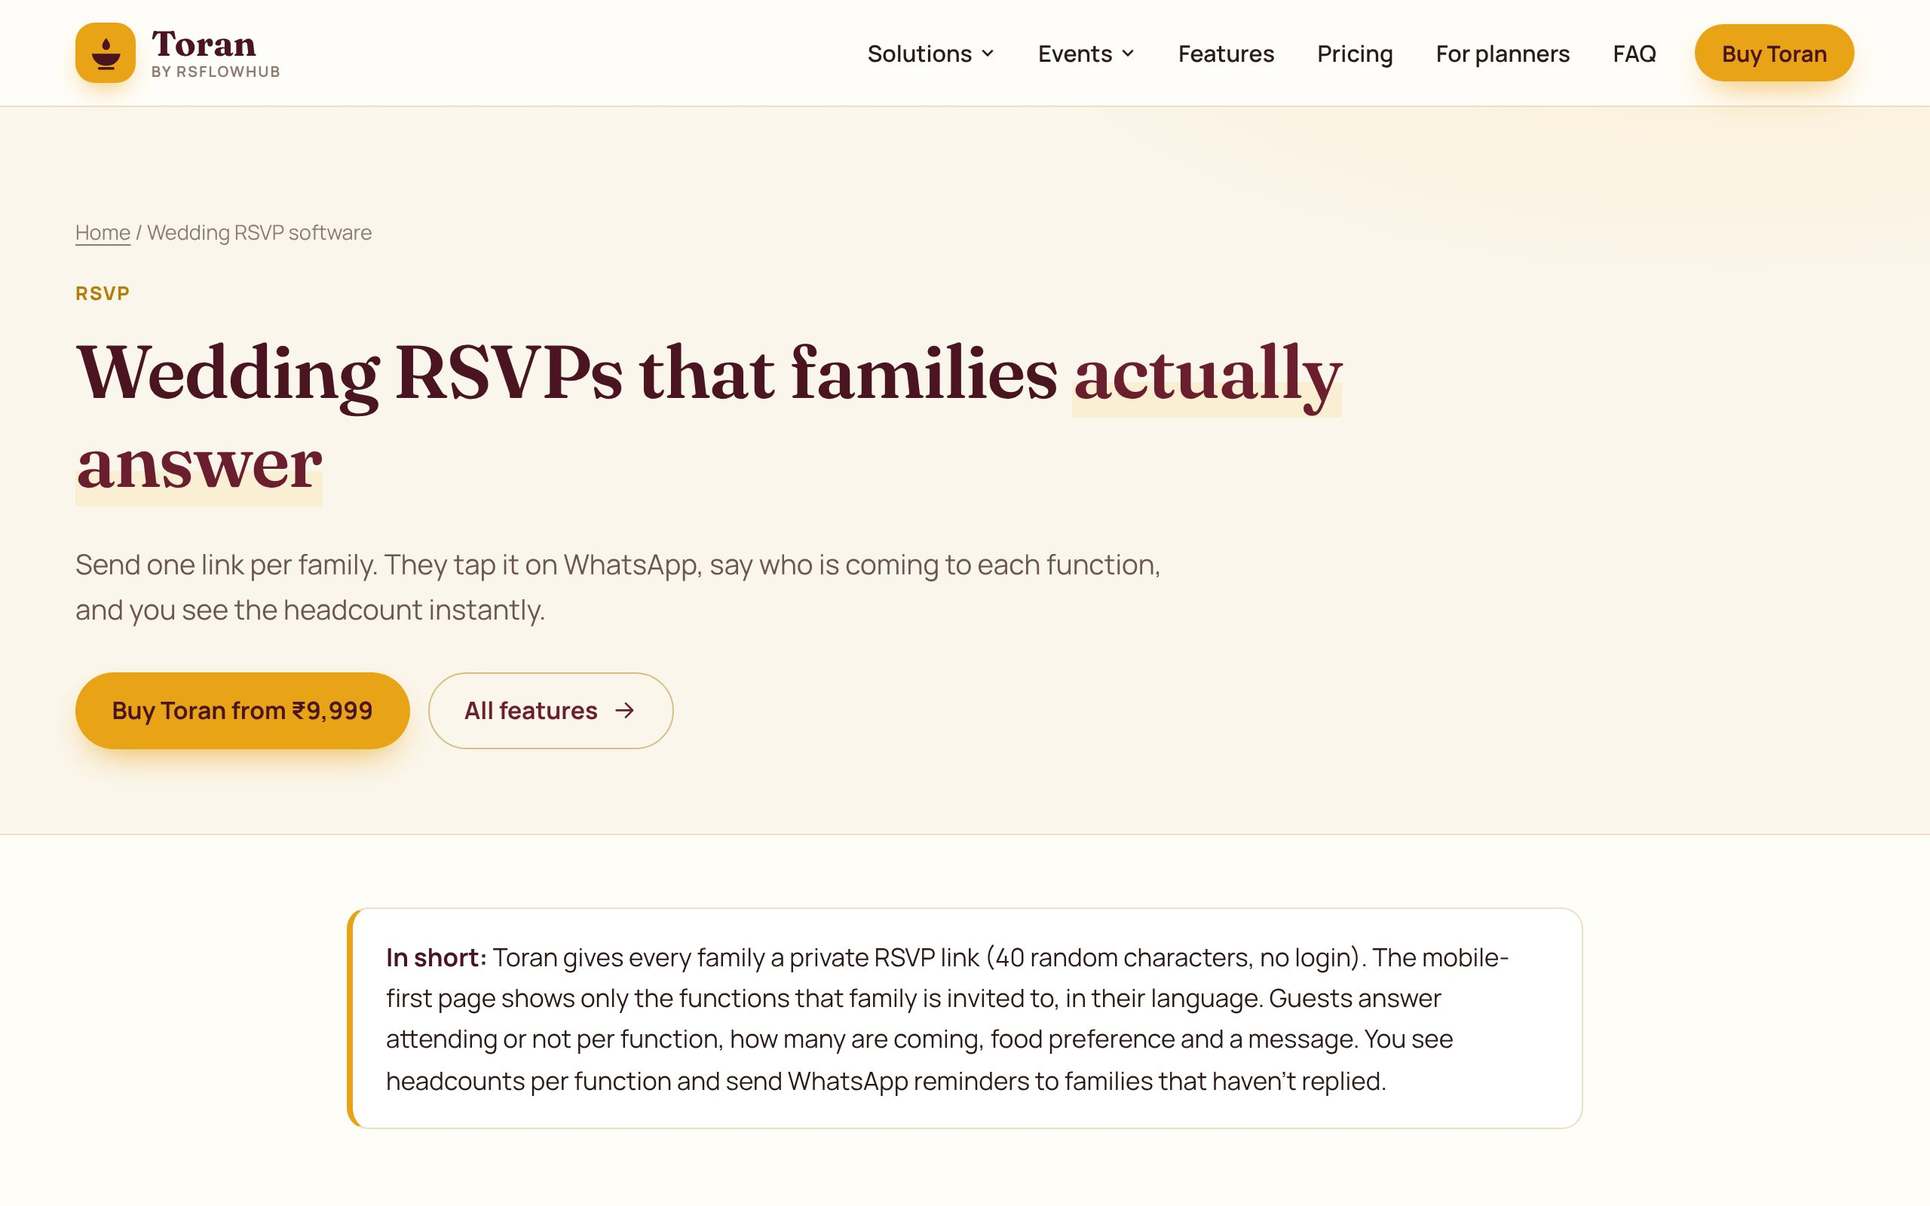
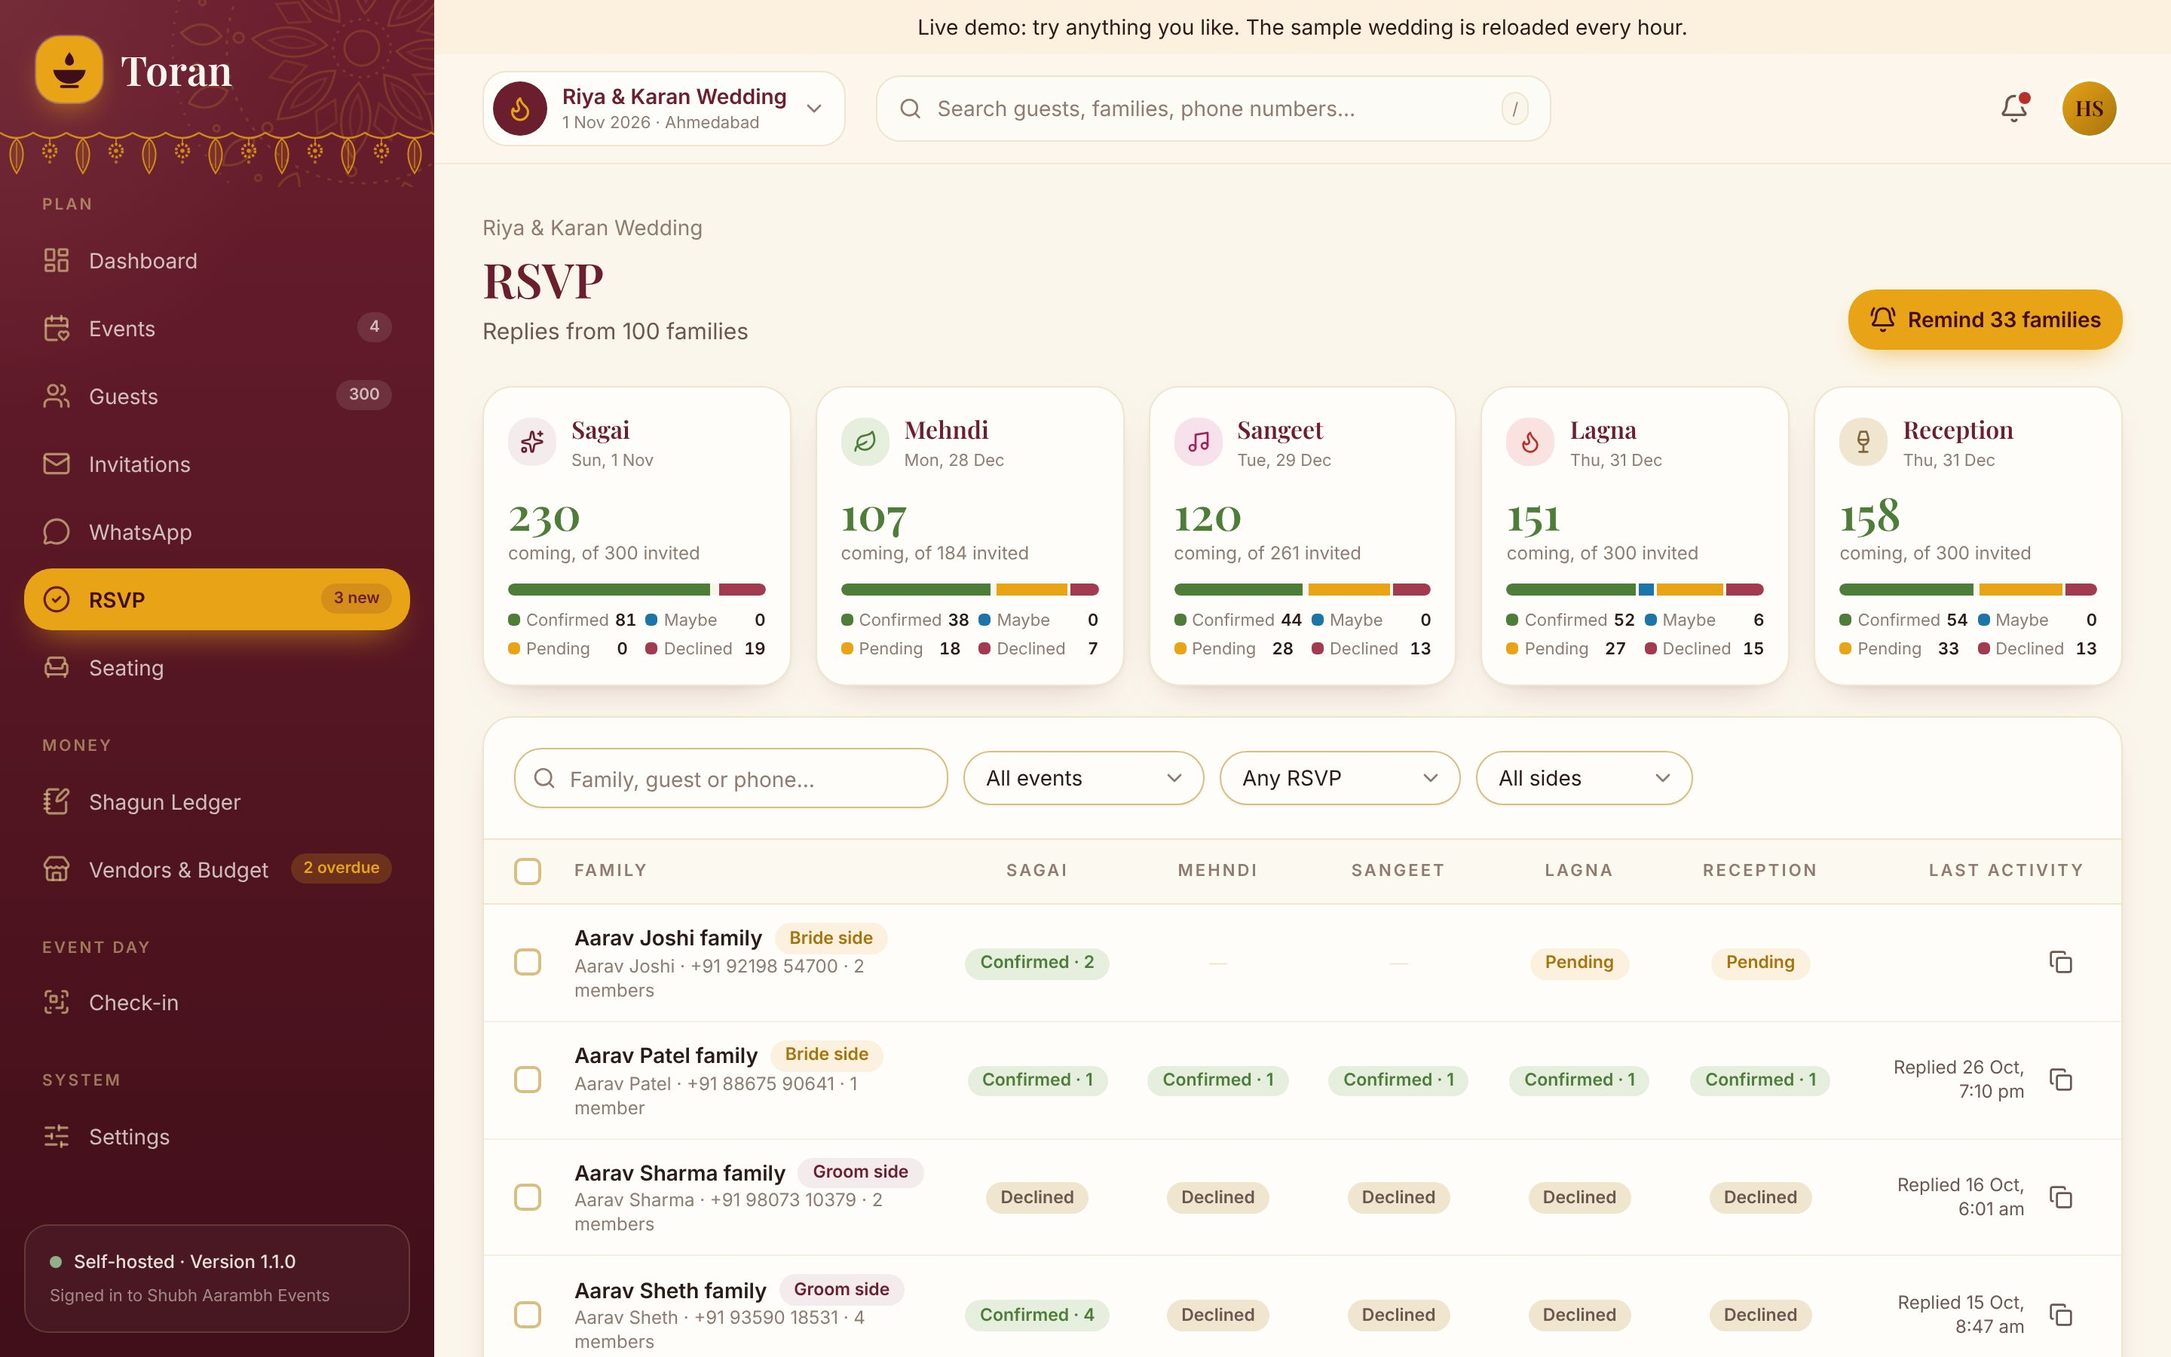
Add screenshots from the live Toran demo and a live demo link
Replace website page screenshots with 12 screenshots of the app
(dashboard, events, guests, RSVP, WhatsApp, invitations, seating,
shagun ledger, vendors, budget, languages, mobile check-in) and link
the live demo from the README and the GitHub Pages site.

diff --git a/docs/index.html b/docs/index.html
@@ -26,7 +26,7 @@
   "inLanguage": ["en", "hi", "gu", "mr"],
   "description": "Self-hosted wedding and event management software for Indian celebrations: guests and families, RSVP links, WhatsApp invitations, invitation designer, shagun ledger, seating plan, vendors and budget, and QR check-in.",
   "url": "https://toran.rsflowhub.com/",
-  "image": "https://rsflowhub.github.io/toran-event-management-software/assets/screenshots/toran-home.jpg",
+  "image": "https://rsflowhub.github.io/toran-event-management-software/assets/screenshots/toran-wedding-dashboard.jpg",
   "publisher": {"@type": "Organization", "name": "RSFlowHub", "url": "https://rsflowhub.com"},
   "offers": [
     {"@type": "Offer", "name": "Single", "price": "9999", "priceCurrency": "INR", "url": "https://toran.rsflowhub.com/pricing"},
@@ -44,6 +44,7 @@
     {"@type": "Question", "name": "Can wedding planners use Toran for clients?", "acceptedAnswer": {"@type": "Answer", "text": "Yes. The Planner plan (up to 3 installations) and the Agency plan (unlimited) allow client use and include white-label branding."}},
     {"@type": "Question", "name": "How does Toran send WhatsApp invitations?", "acceptedAnswer": {"@type": "Answer", "text": "Through the official WhatsApp Cloud API (Meta), Twilio, or free click-to-chat links, with throttling, retries and opt-outs."}},
     {"@type": "Question", "name": "Which languages does Toran support?", "acceptedAnswer": {"@type": "Answer", "text": "English, Hindi, Gujarati and Marathi, chosen per user."}},
+    {"@type": "Question", "name": "Is there a live demo of Toran?", "acceptedAnswer": {"@type": "Answer", "text": "Yes, at https://demo-toran.rsflowhub.com with a sample wedding of 300 guests. Sign in as Admin, Planner or Staff with one click; no sign-up needed."}},
     {"@type": "Question", "name": "Where is guest data stored?", "acceptedAnswer": {"@type": "Answer", "text": "Only on your own server. Toran has no telemetry and RSFlowHub does not host customer data."}}
   ]
 }
@@ -97,10 +98,10 @@ footer{padding:28px 0;color:var(--muted);font-size:14px;text-align:center;border
   <p class="lead">Guests, RSVPs, WhatsApp invitations, the shagun ledger, seating, vendors and the check-in desk, all in one place, with every phone number and gift amount kept on a server you control.</p>
   <div class="ctas">
     <a class="btn btn-p" href="https://toran.rsflowhub.com/pricing?utm_source=github&amp;utm_medium=pages&amp;utm_campaign=toran">Buy Toran from ₹9,999</a>
-    <a class="btn btn-o" href="https://toran.rsflowhub.com/contact?topic=demo&amp;utm_source=github&amp;utm_medium=pages&amp;utm_campaign=toran">Book a free demo</a>
+    <a class="btn btn-o" href="https://demo-toran.rsflowhub.com/login">Try the live demo</a>
   </div>
   <div class="ticks"><span>✓ One-time, GST included</span><span>✓ English, हिन्दी, ગુજરાતી, मराठी</span><span>✓ No per-guest fees</span><span>✓ No telemetry</span></div>
-  <div class="shot"><img src="assets/screenshots/toran-home.jpg" alt="Toran wedding management software home with the wedding dashboard" width="2560" height="1600"></div>
+  <div class="shot"><img src="assets/screenshots/toran-wedding-dashboard.jpg" alt="Toran wedding dashboard with countdown, guests, RSVP status, shagun and event timeline" width="2880" height="1800"></div>
 </div></div>
 
 <section id="features"><div class="wrap">
@@ -122,20 +123,26 @@ footer{padding:28px 0;color:var(--muted);font-size:14px;text-align:center;border
 
 <section id="screenshots" class="alt"><div class="wrap">
   <h2>Screenshots</h2>
-  <p class="sub">Pages from toran.rsflowhub.com and invitation designs bundled with Toran.</p>
+  <p class="sub">From the <a href="https://demo-toran.rsflowhub.com/login">live demo</a>: a sample wedding with 300 guests. Try it yourself, no sign-up needed.</p>
   <div class="gallery">
-    <figure><img loading="lazy" src="assets/screenshots/toran-shagun.jpg" alt="Toran digital shagun register"><figcaption>Shagun ledger</figcaption></figure>
-    <figure><img loading="lazy" src="assets/screenshots/toran-whatsapp.jpg" alt="Toran WhatsApp wedding invitations"><figcaption>WhatsApp invitations</figcaption></figure>
-    <figure><img loading="lazy" src="assets/screenshots/toran-rsvp.jpg" alt="Toran wedding RSVP software"><figcaption>RSVP</figcaption></figure>
-    <figure><img loading="lazy" src="assets/screenshots/toran-checkin.jpg" alt="Toran QR check-in at the wedding gate"><figcaption>QR check-in</figcaption></figure>
-    <figure><img loading="lazy" src="assets/screenshots/toran-seating.jpg" alt="Toran wedding seating plan"><figcaption>Seating plan</figcaption></figure>
-    <figure><img loading="lazy" src="assets/screenshots/toran-pricing.jpg" alt="Toran one-time pricing plans"><figcaption>One-time pricing</figcaption></figure>
+    <figure><img loading="lazy" src="assets/screenshots/toran-events-functions.jpg" alt="Toran event timeline with Sagai, Mehndi, Sangeet, Lagna and Reception"><figcaption>Events and functions</figcaption></figure>
+    <figure><img loading="lazy" src="assets/screenshots/toran-guest-list.jpg" alt="Toran wedding guest list with families, sides and RSVP"><figcaption>Guest list</figcaption></figure>
+    <figure><img loading="lazy" src="assets/screenshots/toran-rsvp.jpg" alt="Toran RSVP replies per function with headcounts"><figcaption>RSVP per function</figcaption></figure>
+    <figure><img loading="lazy" src="assets/screenshots/toran-whatsapp-invitations.jpg" alt="Toran WhatsApp invitations and reminders with send log"><figcaption>WhatsApp invitations</figcaption></figure>
+    <figure><img loading="lazy" src="assets/screenshots/toran-invitation-designer.jpg" alt="Toran invitation designer with sample designs"><figcaption>Invitation designer</figcaption></figure>
+    <figure><img loading="lazy" src="assets/screenshots/toran-seating-plan.jpg" alt="Toran drag-and-drop wedding seating plan"><figcaption>Seating plan</figcaption></figure>
+    <figure><img loading="lazy" src="assets/screenshots/toran-shagun-ledger.jpg" alt="Toran shagun ledger with running total"><figcaption>Shagun / chandlo ledger</figcaption></figure>
+    <figure><img loading="lazy" src="assets/screenshots/toran-vendors.jpg" alt="Toran wedding vendors with agreed amounts and balances"><figcaption>Vendors</figcaption></figure>
+    <figure><img loading="lazy" src="assets/screenshots/toran-wedding-budget.jpg" alt="Toran wedding budget planned vs spent"><figcaption>Budget: planned vs spent</figcaption></figure>
+    <figure><img loading="lazy" src="assets/screenshots/toran-languages.jpg" alt="Toran language settings"><figcaption>English, हिन्दी, ગુજરાતી, मराठी</figcaption></figure>
+    <figure><img loading="lazy" src="assets/screenshots/toran-qr-check-in-mobile.jpg" alt="Toran QR check-in desk on a mobile phone" style="max-height:520px;width:auto;margin:0 auto"><figcaption>QR check-in on a phone</figcaption></figure>
   </div>
   <div class="gallery" style="margin-top:22px;grid-template-columns:repeat(auto-fit,minmax(220px,1fr))">
-    <figure><img loading="lazy" src="assets/screenshots/toran-invitation-royal.png" alt="Royal Indian wedding invitation template"><figcaption>Royal invitation</figcaption></figure>
+    <figure><img loading="lazy" src="assets/screenshots/toran-invitation-royal.png" alt="Royal wedding invitation template"><figcaption>Royal invitation</figcaption></figure>
     <figure><img loading="lazy" src="assets/screenshots/toran-invitation-pastel.png" alt="Pastel wedding invitation template"><figcaption>Pastel invitation</figcaption></figure>
     <figure><img loading="lazy" src="assets/screenshots/toran-invitation-minimal.png" alt="Minimal wedding invitation template"><figcaption>Minimal invitation</figcaption></figure>
   </div>
+  <p style="text-align:center;margin-top:28px"><a class="btn btn-p" href="https://demo-toran.rsflowhub.com/login">Open the live demo →</a></p>
 </div></section>
 
 <section id="events"><div class="wrap">
@@ -186,14 +193,14 @@ footer{padding:28px 0;color:var(--muted);font-size:14px;text-align:center;border
   <details><summary>How are WhatsApp invitations sent?</summary><p>Through the official WhatsApp Cloud API (Meta), Twilio, or free click-to-chat links, with throttling, retries and automatic opt-outs.</p></details>
   <details><summary>Do guests need an app to RSVP?</summary><p>No. Each family opens its own private link on any phone. No login is needed.</p></details>
   <details><summary>What hosting do I need?</summary><p>PHP 8.2+, MySQL 5.7+ or MariaDB 10.3+ and one cron job, on cPanel or Plesk shared hosting, a VPS, or Docker. We can install it for you.</p></details>
-  <details><summary>Can I try it first?</summary><p>Yes. <a href="https://toran.rsflowhub.com/contact?topic=demo&amp;utm_source=github&amp;utm_medium=pages&amp;utm_campaign=toran">Book a guided demo</a> and we will walk you through a sample wedding.</p></details>
+  <details><summary>Can I try it first?</summary><p>Yes. Open the <a href="https://demo-toran.rsflowhub.com/login">live demo</a> and pick Admin, Planner or Staff. No sign-up is needed, and the sample wedding reloads every hour. Or <a href="https://toran.rsflowhub.com/contact?topic=demo&amp;utm_source=github&amp;utm_medium=pages&amp;utm_campaign=toran">book a guided demo</a>.</p></details>
   <p style="text-align:center">Docs: <a href="installation">Installation</a> · <a href="configuration">Configuration</a> · <a href="user-guide">User guide</a> · <a href="customisation">Customisation</a> · <a href="upgrade">Upgrade</a> · <a href="faq">Full FAQ</a></p>
 </div></section>
 
 <section class="final"><div class="wrap">
   <h2>Plan the whole celebration from your own server</h2>
   <p>Pay once. Every module. Your guests' data stays with you.</p>
-  <div class="ctas"><a class="btn btn-p" style="background:var(--gold);color:#2a0f17" href="https://toran.rsflowhub.com/pricing?utm_source=github&amp;utm_medium=pages&amp;utm_campaign=toran">Buy Toran</a><a class="btn btn-o" href="https://toran.rsflowhub.com/contact?topic=demo&amp;utm_source=github&amp;utm_medium=pages&amp;utm_campaign=toran">Book a demo</a></div>
+  <div class="ctas"><a class="btn btn-p" style="background:var(--gold);color:#2a0f17" href="https://toran.rsflowhub.com/pricing?utm_source=github&amp;utm_medium=pages&amp;utm_campaign=toran">Buy Toran</a><a class="btn btn-o" href="https://demo-toran.rsflowhub.com/login">Try the live demo</a></div>
 </div></section>
 </main>
 

diff --git a/README.md b/README.md
@@ -7,14 +7,16 @@
 **Self-hosted wedding planner software. Manage the guest list, RSVPs, WhatsApp invitations, the shagun (chandlo) ledger, seating, vendors and budget, and QR check-in at the gate. Pay once, install it on your own server, and keep every phone number and gift amount private.**
 
 [![Buy Toran](https://img.shields.io/badge/Buy%20Toran-from%20%E2%82%B99%2C999-e9a319?style=for-the-badge)](https://toran.rsflowhub.com/pricing?utm_source=github&utm_medium=readme&utm_campaign=toran)
-[![Book a demo](https://img.shields.io/badge/Book%20a%20free%20demo-6b1d2e?style=for-the-badge)](https://toran.rsflowhub.com/contact?topic=demo&utm_source=github&utm_medium=readme&utm_campaign=toran)
+[![Try the live demo](https://img.shields.io/badge/Try%20the%20live%20demo-6b1d2e?style=for-the-badge)](https://demo-toran.rsflowhub.com/login)
 [![Website](https://img.shields.io/badge/Website-toran.rsflowhub.com-4a1424?style=for-the-badge)](https://toran.rsflowhub.com/?utm_source=github&utm_medium=readme&utm_campaign=toran)
 
 ![Version](https://img.shields.io/badge/version-1.0-blue) ![PHP](https://img.shields.io/badge/PHP-8.2%2B-777bb4) ![Languages](https://img.shields.io/badge/English%20%7C%20%E0%A4%B9%E0%A4%BF%E0%A4%A8%E0%A5%8D%E0%A4%A6%E0%A5%80%20%7C%20%E0%AA%97%E0%AB%81%E0%AA%9C%E0%AA%B0%E0%AA%BE%E0%AA%A4%E0%AB%80%20%7C%20%E0%A4%AE%E0%A4%B0%E0%A4%BE%E0%A4%A0%E0%A5%80-orange) ![Made in India](https://img.shields.io/badge/Made%20in-India-ff9933) ![Licence](https://img.shields.io/badge/licence-one--time-success)
 
 </div>
 
-![Toran wedding management software showing a wedding dashboard with guests, RSVPs, shagun and the Mehndi, Sangeet and Lagna timeline](docs/assets/screenshots/toran-home.jpg)
+![Toran wedding management software dashboard: countdown to the wedding, 300 guests, RSVP status, shagun received and the event timeline](docs/assets/screenshots/toran-wedding-dashboard.jpg)
+
+> 🎮 **Live demo:** **[demo-toran.rsflowhub.com](https://demo-toran.rsflowhub.com/login)**. Pick Admin, Planner or Staff and sign in with one click, no sign-up needed. It has a sample wedding with 300 guests, RSVPs, shagun, seating, vendors and a budget, and it reloads every hour.
 
 > **About this repository:** this repository holds the product page, screenshots and documentation for **Toran**. The software itself is sold as a one-time licence at **[toran.rsflowhub.com](https://toran.rsflowhub.com/?utm_source=github&utm_medium=readme&utm_campaign=toran)**.
 
@@ -162,11 +164,17 @@ Toran is not only for weddings. Each event type has its own page:
 
 ## Screenshots
 
+All screenshots are from the [live demo](https://demo-toran.rsflowhub.com/login) (sample wedding data).
+
 | | |
 |---|---|
-| ![Toran features: everything to run an Indian wedding in one app](docs/assets/screenshots/toran-features.jpg) **All modules** | ![Toran digital shagun and chandlo register](docs/assets/screenshots/toran-shagun.jpg) **Shagun ledger** |
-| ![Toran WhatsApp wedding invitations](docs/assets/screenshots/toran-whatsapp.jpg) **WhatsApp invitations** | ![Toran wedding RSVP link per family](docs/assets/screenshots/toran-rsvp.jpg) **RSVP** |
-| ![Toran QR check-in at the wedding gate](docs/assets/screenshots/toran-checkin.jpg) **QR check-in** | ![Toran wedding seating plan](docs/assets/screenshots/toran-seating.jpg) **Seating plan** |
+| ![Toran event timeline with Sagai, Mehndi, Sangeet, Lagna and Reception](docs/assets/screenshots/toran-events-functions.jpg) **Events and functions** | ![Toran wedding guest list with families, bride and groom side and RSVP](docs/assets/screenshots/toran-guest-list.jpg) **Guest list (300 guests, 100 families)** |
+| ![Toran RSVP replies per function with headcounts](docs/assets/screenshots/toran-rsvp.jpg) **RSVP per function** | ![Toran WhatsApp invitations and RSVP reminders with send log](docs/assets/screenshots/toran-whatsapp-invitations.jpg) **WhatsApp invitations** |
+| ![Toran invitation designer with Royal, Minimal and Pastel designs](docs/assets/screenshots/toran-invitation-designer.jpg) **Invitation designer** | ![Toran drag-and-drop wedding seating plan with tables](docs/assets/screenshots/toran-seating-plan.jpg) **Seating plan** |
+| ![Toran shagun ledger with running total, by event and by side](docs/assets/screenshots/toran-shagun-ledger.jpg) **Shagun / chandlo ledger** | ![Toran wedding vendors with agreed amounts and balances](docs/assets/screenshots/toran-vendors.jpg) **Vendors** |
+| ![Toran wedding budget planned vs spent by category](docs/assets/screenshots/toran-wedding-budget.jpg) **Budget: planned vs spent** | ![Toran language settings: English, Hindi, Gujarati, Marathi](docs/assets/screenshots/toran-languages.jpg) **English, हिन्दी, ગુજરાતી, मराठी** |
+
+<p align="center"><img src="docs/assets/screenshots/toran-qr-check-in-mobile.jpg" alt="Toran QR check-in desk on a mobile phone at the wedding gate" width="300"><br><b>QR check-in on a phone</b></p>
 
 **Invitation designs bundled with Toran:**
 
@@ -174,7 +182,7 @@ Toran is not only for weddings. Each event type has its own page:
 |---|---|---|
 | ![Royal Indian wedding invitation template](docs/assets/screenshots/toran-invitation-royal.png) | ![Pastel wedding invitation template](docs/assets/screenshots/toran-invitation-pastel.png) | ![Minimal wedding invitation template](docs/assets/screenshots/toran-invitation-minimal.png) |
 
-👉 **See it live:** [book a free demo](https://toran.rsflowhub.com/contact?topic=demo&utm_source=github&utm_medium=readme&utm_campaign=toran)
+👉 **[Try the live demo](https://demo-toran.rsflowhub.com/login)** or **[book a guided demo](https://toran.rsflowhub.com/contact?topic=demo&utm_source=github&utm_medium=readme&utm_campaign=toran)**
 
 ---
 
@@ -253,7 +261,7 @@ No. Each family gets a private link that opens on any phone.
 <details>
 <summary><b>Can I try it before buying?</b></summary>
 
-Yes. [Book a guided demo](https://toran.rsflowhub.com/contact?topic=demo&utm_source=github&utm_medium=readme&utm_campaign=toran) and we will walk you through a sample wedding.
+Yes. Open the **[live demo](https://demo-toran.rsflowhub.com/login)** (no sign-up). It has a sample wedding with 300 guests, RSVPs, shagun, seating, vendors and a budget. Or [book a guided demo](https://toran.rsflowhub.com/contact?topic=demo&utm_source=github&utm_medium=readme&utm_campaign=toran).
 </details>
 
 More questions: [docs/faq.md](docs/faq.md) · [toran.rsflowhub.com/faq](https://toran.rsflowhub.com/faq?utm_source=github&utm_medium=readme&utm_campaign=toran)
@@ -265,7 +273,8 @@ More questions: [docs/faq.md](docs/faq.md) · [toran.rsflowhub.com/faq](https://
 | | |
 |---|---|
 | 🛒 **Buy** | [toran.rsflowhub.com/pricing](https://toran.rsflowhub.com/pricing?utm_source=github&utm_medium=readme&utm_campaign=toran) |
-| 🎥 **Demo** | [toran.rsflowhub.com/contact](https://toran.rsflowhub.com/contact?topic=demo&utm_source=github&utm_medium=readme&utm_campaign=toran) |
+| 🎮 **Live demo** | [demo-toran.rsflowhub.com](https://demo-toran.rsflowhub.com/login) |
+| 🎥 **Guided demo** | [toran.rsflowhub.com/contact](https://toran.rsflowhub.com/contact?topic=demo&utm_source=github&utm_medium=readme&utm_campaign=toran) |
 | 💍 **For planners** | [toran.rsflowhub.com/wedding/planner-software](https://toran.rsflowhub.com/wedding/planner-software?utm_source=github&utm_medium=readme&utm_campaign=toran) |
 | 📧 **Email** | support@rsflowhub.com |
 | 🌐 **Company** | [RSFlowHub](https://rsflowhub.com/?utm_source=github&utm_medium=readme&utm_campaign=toran) |
